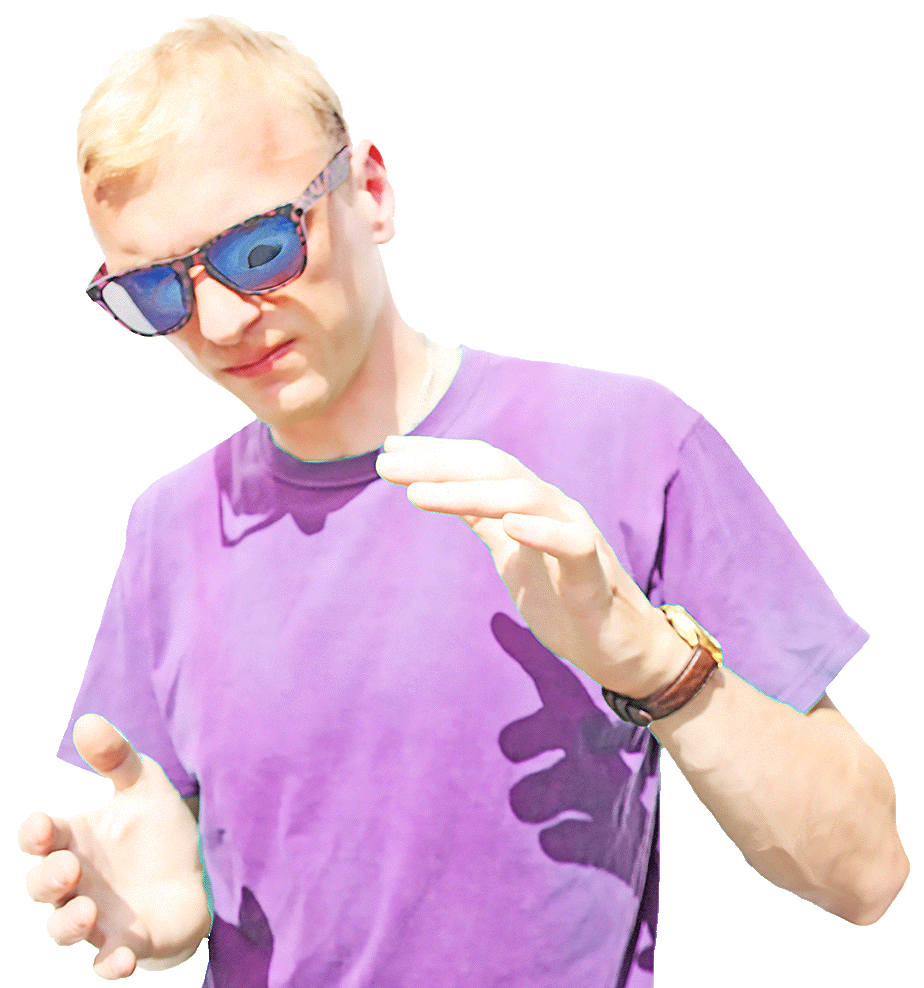
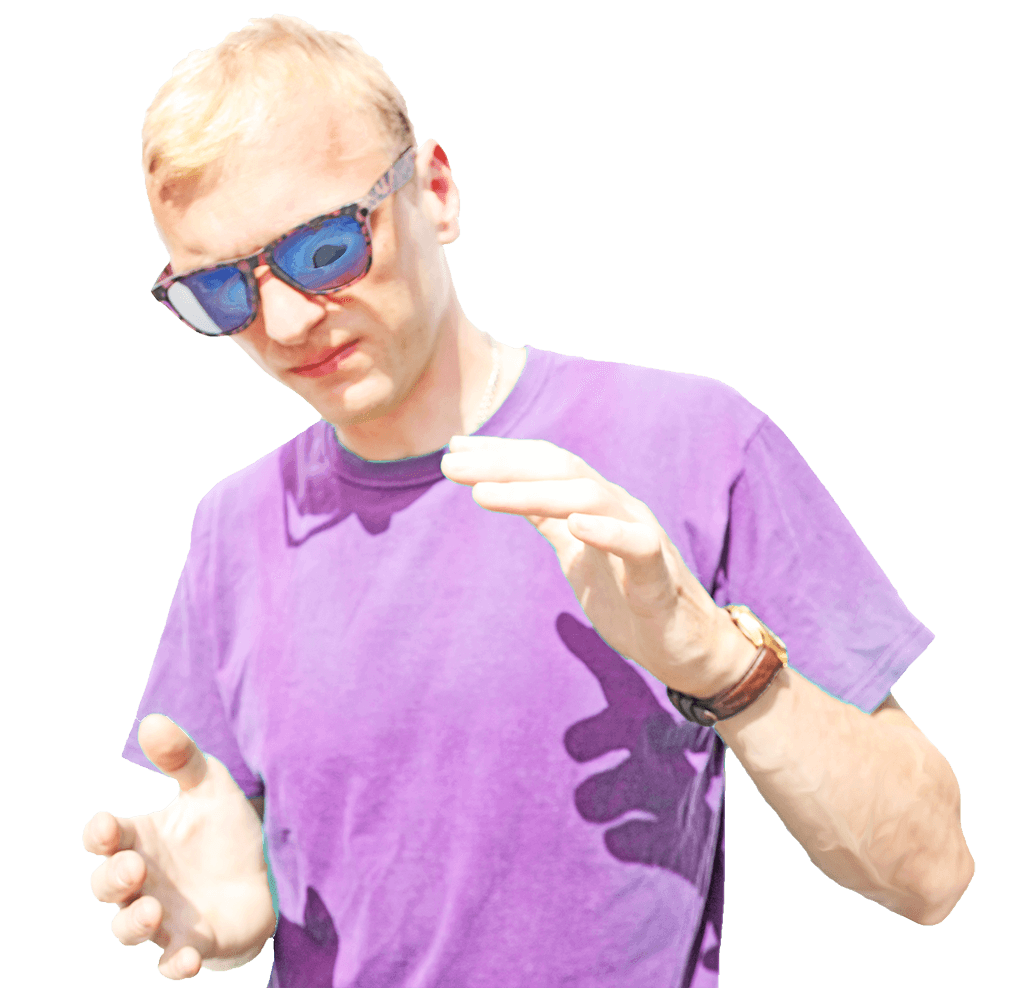
changed main photo

diff --git a/css/main.css b/css/main.css
@@ -147,7 +147,7 @@ main {
   max-height: 45%;
   min-height: 45%;
   position: relative;
-  right: 60px;
+  right: 50px;
   margin-bottom: 10px;
 	background-color: rgba(0%, 0%, 0%,0.3);
   box-shadow:0px 0px 10px 10px rgba(255,255,255,0.30),0px 0px 10px 10px rgba(255,255,255,0.30);
